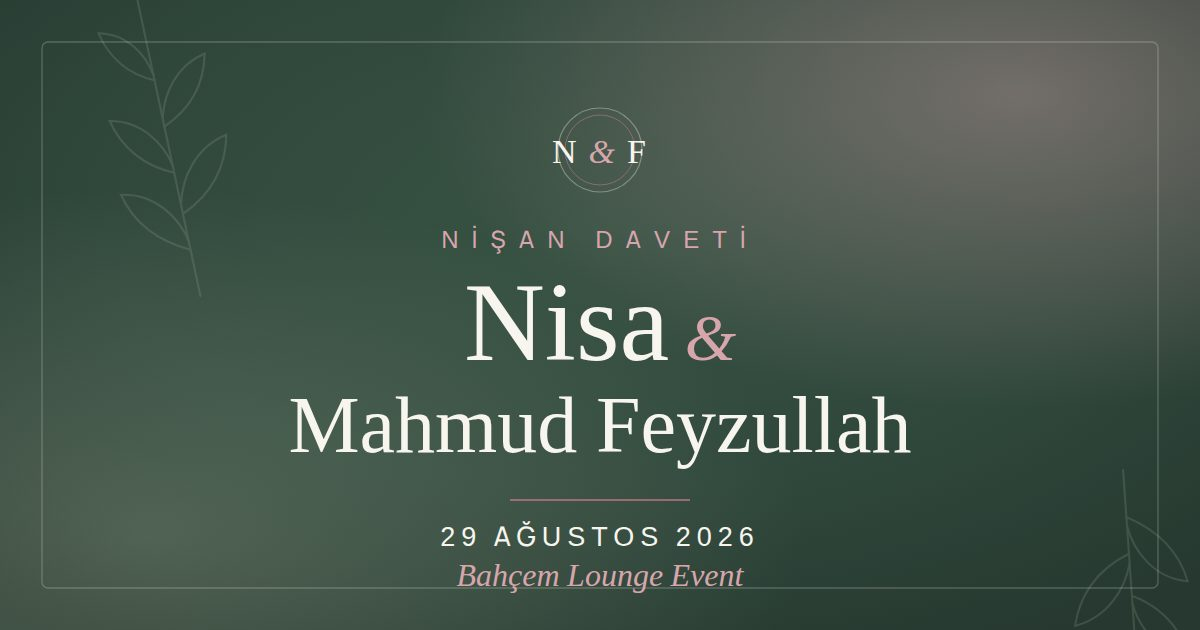
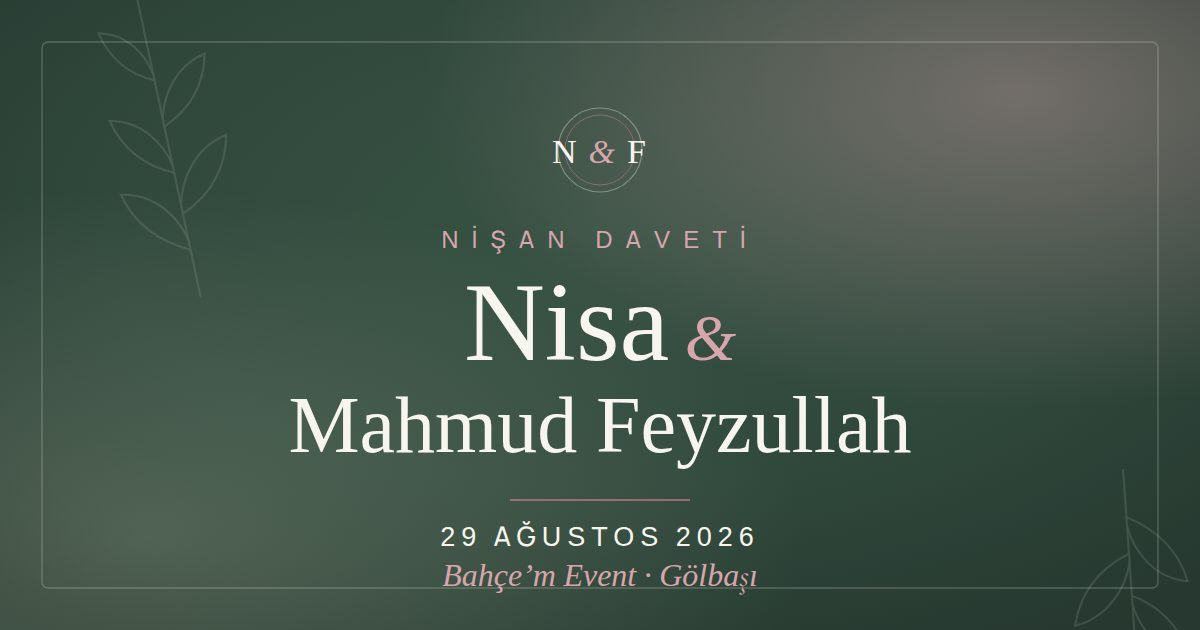
Mekan: 'Bahçe'm Event, Gölbaşı' — Etkinlik Bilgileri altına konum ikonuyla taşındı
- Üstteki mekân satırı kaldırıldı
- Etkinlik Bilgileri'ne konum ikonlu 'Bahçe'm Event, Gölbaşı' satırı (haritanın üstünde)
- Harita sorgusu, OG kapağı ve takvim (.ics) mekânı güncellendi

Claude-Session: https://claude.ai/code/session_01CVd711oMa13HjfJW9fi8VJ

Changed region(s): [[0.37, 0.8746, 0.6475, 0.9349]]

diff --git a/index.html b/index.html
@@ -12,7 +12,7 @@
 
   <!-- ===== Open Graph ===== -->
   <meta property="og:title" content="Nisa & Mahmud Feyzullah" />
-  <meta property="og:description" content="Nişan törenimize davetlisiniz · 29 Ağustos 2026 · Bahçem Lounge Event" />
+  <meta property="og:description" content="Nişan törenimize davetlisiniz · 29 Ağustos 2026 · Bahçe'm Event, Gölbaşı" />
   <meta property="og:type" content="website" />
   <meta property="og:locale" content="tr_TR" />
   <meta property="og:url" content="https://davet.fngn.com.tr/" />
@@ -21,10 +21,10 @@
   <meta property="og:image:type" content="image/jpeg" />
   <meta property="og:image:width" content="1200" />
   <meta property="og:image:height" content="630" />
-  <meta property="og:image:alt" content="Nisa & Mahmud Feyzullah · 29 Ağustos 2026 · Bahçem Lounge Event" />
+  <meta property="og:image:alt" content="Nisa & Mahmud Feyzullah · 29 Ağustos 2026 · Bahçe'm Event, Gölbaşı" />
   <meta name="twitter:card" content="summary_large_image" />
   <meta name="twitter:title" content="Nisa & Mahmud Feyzullah" />
-  <meta name="twitter:description" content="Nişan törenimize davetlisiniz · 29 Ağustos 2026 · Bahçem Lounge Event" />
+  <meta name="twitter:description" content="Nişan törenimize davetlisiniz · 29 Ağustos 2026 · Bahçe'm Event, Gölbaşı" />
   <meta name="twitter:image" content="https://davet.fngn.com.tr/assets/og-cover.jpg" />
 
   <!-- ===== Favicon ===== -->
@@ -85,8 +85,6 @@
         <span class="names__b">Mahmud Feyzullah</span>
       </h1>
 
-      <p class="venue">Bahçem Lounge Event</p>
-
       <span class="divider" aria-hidden="true"><svg viewBox="0 0 132 26"><use href="#sprig"/></svg></span>
 
       <blockquote class="verse">
@@ -124,14 +122,20 @@
             </span>
             Dress Code: <b>Şık Davet</b>
           </li>
+          <li>
+            <span class="info__ic" aria-hidden="true">
+              <svg viewBox="0 0 24 24"><path d="M12 21s-6-5-6-10a6 6 0 0 1 12 0c0 5-6 10-6 10z"/><circle cx="12" cy="11" r="2.2"/></svg>
+            </span>
+            Bahçe’m Event, Gölbaşı
+          </li>
         </ul>
       </div>
 
       <!-- Konum + harita önizlemesi -->
       <div class="map">
-        <iframe class="map__frame" title="Bahçem Lounge Event konumu — Google Haritalar" loading="lazy"
+        <iframe class="map__frame" title="Bahçe'm Event, Gölbaşı konumu — Google Haritalar" loading="lazy"
                 referrerpolicy="no-referrer-when-downgrade"
-                src="https://www.google.com/maps?q=Bah%C3%A7em%20Lounge%20Event&z=15&output=embed"></iframe>
+                src="https://www.google.com/maps?q=Bah%C3%A7e%27m%20Event%20G%C3%B6lba%C5%9F%C4%B1&z=15&output=embed"></iframe>
       </div>
 
       <!-- Aksiyonlar -->

diff --git a/script.js b/script.js
@@ -14,7 +14,7 @@
       title:    "Nisa & Mahmud Feyzullah Nişan Töreni",
       startUTC: "20260829T163000Z", // 29 Ağustos 2026 19.30 TRT
       endUTC:   "20260829T200000Z", // 29 Ağustos 2026 23.00 TRT
-      location: "Bahçem Lounge Event",
+      location: "Bahçe'm Event, Gölbaşı",
       mapUrl:   "https://maps.app.goo.gl/74moU6DSwXH2Yefm8?g_st=ic",
       description: "Nisa Korkmaz ve Mahmud Feyzullah Engin'in nişan töreni.",
       filename: "nisa-mahmud-feyzullah-nisan.ics"
